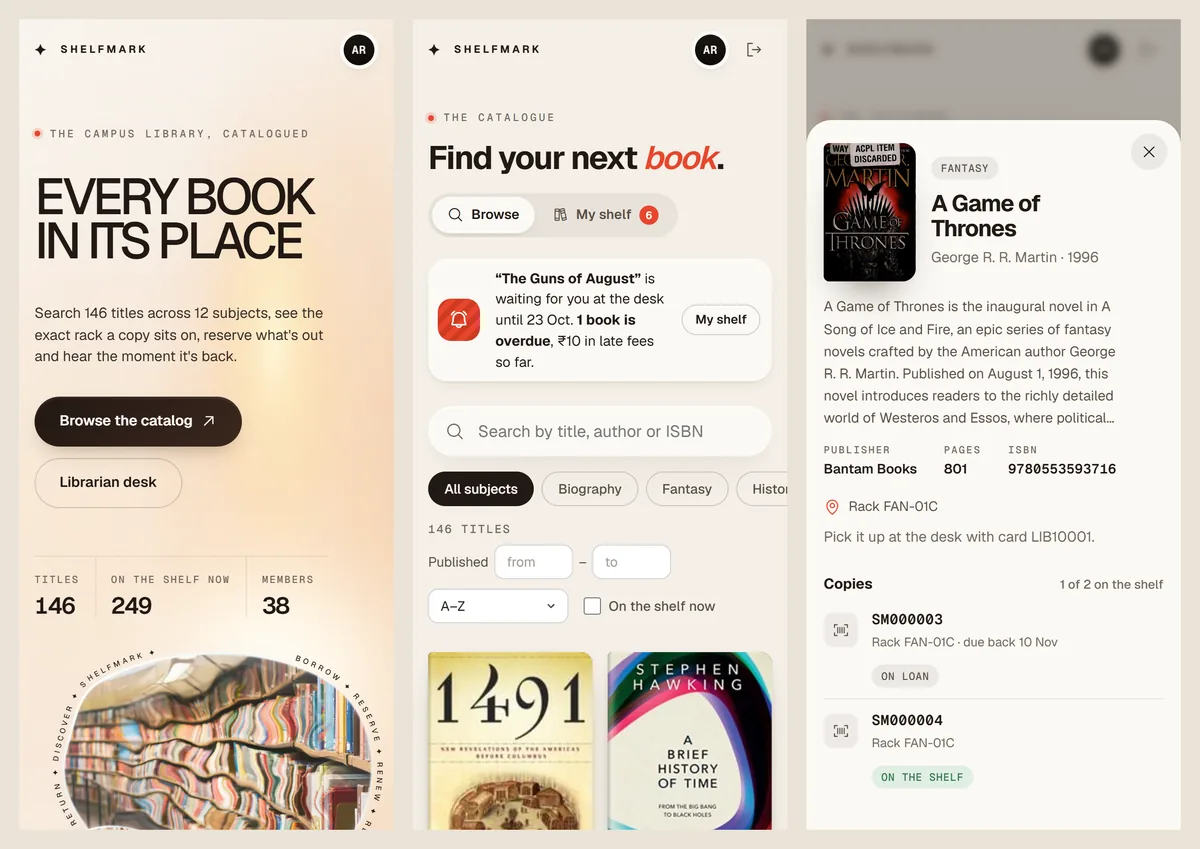
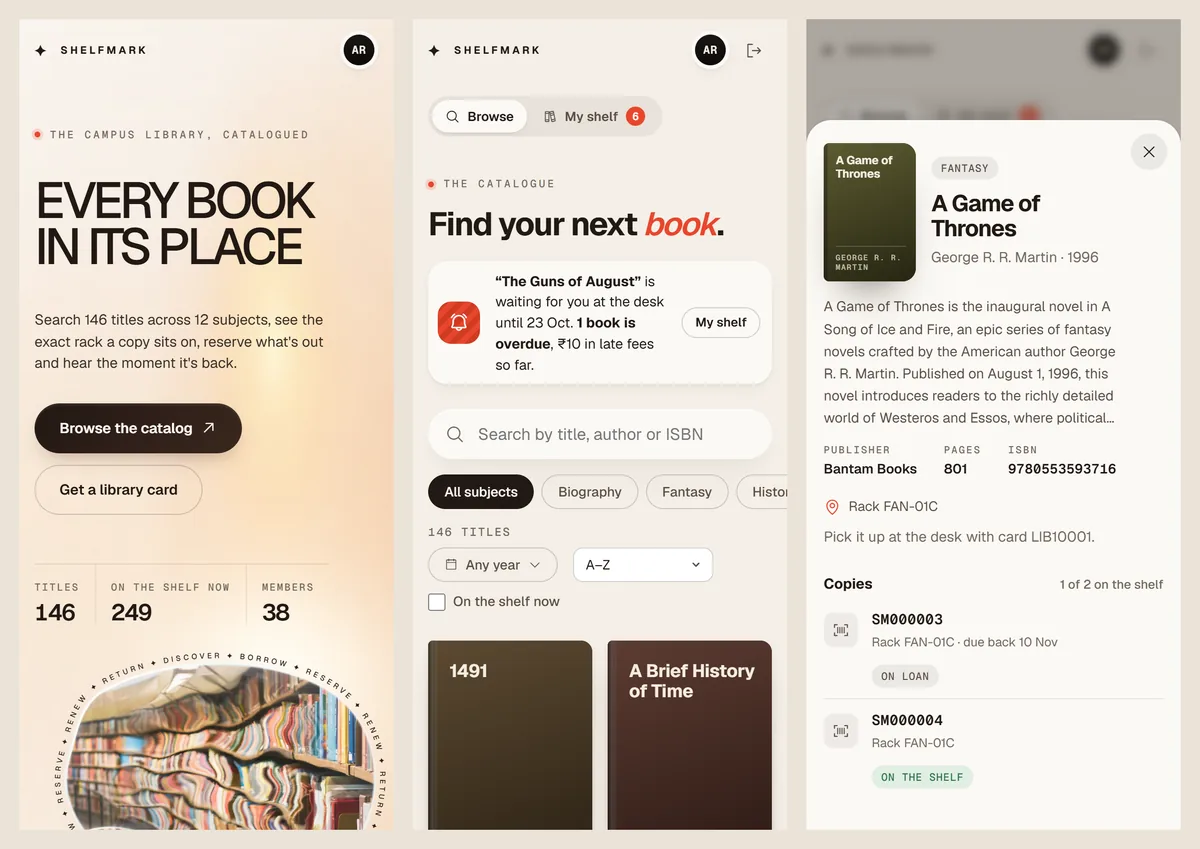
README and screenshots for Shelfmark and Shelfmark Admin

diff --git a/README.md b/README.md
@@ -1,14 +1,19 @@
 # Shelfmark
 
-A small but complete **library management system**, built as an Object-Oriented Software Development case study. Members search the catalogue, reserve titles that are out and renew their loans. Librarians run the circulation desk: issuing and returning copies by barcode, collecting fines and managing the catalogue and memberships.
+A small but complete **library management system**, built as an Object-Oriented Software Development case study. It is two apps on one database:
 
-**Live demo:** {{LIVE_URL}} &nbsp;·&nbsp; **API docs:** {{LIVE_URL}}/docs
+- **Shelfmark** for students and faculty: search the catalogue, reserve titles that are out, renew loans and keep track of fines and notices.
+- **Shelfmark Admin** for library staff: issue and return copies by barcode, collect fines, and manage the catalogue and memberships.
 
-| Demo account | Email | Password |
-|---|---|---|
-| Librarian (Desk) | `librarian@shelfmark.test` | `shelfmark` |
-| Student member | `student@shelfmark.test` | `shelfmark` |
-| Faculty member | `faculty@shelfmark.test` | `shelfmark` |
+**Live demo:** {{LIVE_URL}}
+
+| App | Sign in at | Login | Password |
+|---|---|---|---|
+| Shelfmark (student) | `/catalog` | `student@shelfmark.test` or card `LIB10001` | `shelfmark` |
+| Shelfmark (faculty) | `/catalog` | `faculty@shelfmark.test` or card `LIB10002` | `shelfmark` |
+| Shelfmark Admin (librarian) | `/admin` | staff ID `STAFF001` | `shelfmark-admin` |
+
+Members and staff sign in at separate doors with separate sessions, so both apps can be open side by side in one browser. The interactive API docs at `/docs` are for signed-in staff only.
 
 ![Landing page](docs/landing.webp)
 
@@ -16,22 +21,22 @@ A small but complete **library management system**, built as an Object-Oriented 
 
 **Visitors** can browse the landing page, which shows live catalogue figures, the most borrowed titles and the subject shelves. They can search the catalogue by title, author, ISBN, subject and publication year, and see every copy of a title with its rack and status.
 
-**Members** (Student or Faculty) can:
-- sign up and get a library card with a barcode;
+**Members** (Student or Faculty) use Shelfmark to:
+- sign up and get a library card with a barcode, then sign in with their email or card number;
 - reserve a title when every copy is out, joining a first-come, first-served queue;
 - renew a loan once, provided it isn't overdue and nobody is queued for it;
-- see their loans, due dates, accruing late fees, holds, fines and notices in one place.
+- see their loans, due dates, accruing late fees, holds, fines and notices on *My shelf*.
 
-**Librarians** use the Desk, which opens on the counter:
+**Librarians** sign in to Shelfmark Admin with their staff ID. It opens on the counter:
 - issue and return side by side: scan a library card and a book's barcode, see who and what before confirming (USB scanners work as keyboards);
-- four live counts (on loan, overdue, holds ready, unpaid fines), the overdue list, holds to hand over in one click and recent activity;
-- tabs for loans, reservations, fines, members (register, suspend, reinstate) and the catalogue (with an Open Library ISBN lookup when adding titles).
+- four live counts (on loan, overdue, holds ready, unpaid fines), holds to hand over in one click, the overdue list and an activity feed from every account that refreshes itself;
+- tabs for loans, reservations, fines, members (register, suspend, reinstate, see a card's recent activity) and the catalogue (with an Open Library ISBN lookup when adding titles).
 
-| Member catalog | My shelf |
+| Shelfmark: the catalog | Shelfmark: my shelf |
 |---|---|
 | ![Catalog](docs/catalog.webp) | ![My shelf](docs/shelf.webp) |
-| **Librarian desk** | **On a phone** |
-| ![Desk](docs/desk.webp) | ![Phone](docs/mobile.webp) |
+| **Shelfmark Admin** | **On a phone** |
+| ![Shelfmark Admin](docs/admin.webp) | ![Phone](docs/mobile.webp) |
 
 ## Case study requirements
 
@@ -40,13 +45,13 @@ A small but complete **library management system**, built as an Object-Oriented 
 | Search books by title, author, subject category and publication date | `GET /api/books?q=&by=title\|author\|isbn&subject=&year_from=&year_to=` |
 | Every book has a unique identifier and a rack number to locate it | ISBN on `Book`; a barcode and rack (e.g. `FAN-01A`) on every `BookItem` |
 | More than one copy of a book (*book items*) | `Book 1 ── * BookItem`; copies can be added, written off and found again |
-| Who has a particular book, and what a member has borrowed | Desk → Loans (search by member, card, title or barcode), member cards, copy scans |
+| Who has a particular book, and what a member has borrowed | Admin → Loans (search by member, card, title or barcode), member cards, copy scans |
 | Maximum books per member | Students 5, faculty 10 (`Member.max_books`) |
 | Maximum days a book can be kept | Students 10 days, faculty 30 (`Member.loan_days`), one renewal |
 | Fines for late returns | On return: days late × daily rate (₹5 student, ₹2 faculty); unpaid fines block borrowing |
 | Reserve books that aren't available | Reservation queue per title; the returned copy is held for 3 days for the first in line |
 | Notify when a reserved book is available, or a book is overdue | `MemberNotifier` observer posts in-app notices |
-| Barcodes on books and library cards | Every copy has a barcode (`SM000123`), every member card a CODE128 barcode; the desk's inputs work with USB scanners |
+| Barcodes on books and library cards | Every copy has a barcode (`SM000123`), every member card a CODE128 barcode; the Admin counter works with USB scanners |
 
 ## Object-oriented design
 
@@ -194,13 +199,13 @@ classDiagram
 ```mermaid
 sequenceDiagram
     actor L as Librarian
-    participant D as Desk (browser)
+    participant D as Admin (browser)
     participant A as FastAPI
     participant Lib as Library
     participant M as Member
     participant O as Observers
     L->>D: scan library card, scan book
-    D->>A: POST /api/desk/issue {card_no, barcode}
+    D->>A: POST /api/admin/issue {card_no, barcode}
     A->>Lib: issue(member, item)
     Lib->>M: ensure_can_borrow()
     Note right of M: suspended? unpaid fines?<br/>already at max_books?
@@ -264,12 +269,12 @@ stateDiagram-v2
     }
 ```
 
-Time-based rules (overdue notices and expired holds) are applied by `Library.sweep()`. It runs when the desk's counter or a member's account is loaded, so no scheduler is needed for a single-instance deployment.
+Time-based rules (overdue notices and expired holds) are applied by `Library.sweep()`. It runs when the Admin counter or a member's shelf is loaded, so no scheduler is needed for a single-instance deployment.
 
 ## Architecture
 
 ```
-Browser ── landing / catalog / desk (HTML, CSS, vanilla JS)
+Browser ── landing · Shelfmark (catalog) · Shelfmark Admin (HTML, CSS, vanilla JS)
    │  JSON over HTTPS, session cookie
 FastAPI (app/main.py) ── validation, auth guards, JSON shapes
    │
@@ -287,15 +292,15 @@ app/
   main.py       REST API, auth, static pages
   seed.py       demo data, replayed through the Library facade
   db.py         engine and session setup
-web/            landing (index), catalog and desk pages on one shared theme.css and shared.js
+web/            landing (index), catalog and admin pages on one shared theme.css and shared.js
 data/books.json 146 curated titles enriched from Open Library
 scripts/        dataset builder
 tests/          unit tests for every business rule
 ```
 
 - **Backend:** Python 3.13, FastAPI, SQLAlchemy 2, psycopg 3
-- **Auth:** scrypt-hashed passwords, signed session cookie (`HttpOnly`, `SameSite=Lax`, `Secure` in production), role guards per endpoint
-- **Frontend:** plain HTML/CSS/JS with no build step: one theme for all three pages, CSS animations, plus JsBarcode and Phosphor icons from CDNs
+- **Auth:** scrypt-hashed passwords; members and staff sign in at separate endpoints into separate slots of one signed session cookie (`HttpOnly`, `SameSite=Lax`, `Secure` in production); role guards on every endpoint
+- **Frontend:** plain HTML/CSS/JS with no build step: one theme for every page, CSS animations and page transitions, plus JsBarcode and Phosphor icons from CDNs
 - **Data:** demo seed with 146 books, 311 copies, 39 accounts and six weeks of simulated circulation. The simulation runs through the same `Library` class the API uses, so every loan, fine, hold and notice obeys the real rules.
 
 ## Run it locally
@@ -316,17 +321,17 @@ python -m unittest        # 17 tests covering the case-study rules
 | Page | URL |
 |---|---|
 | Landing | `/` |
-| Member catalog | `/catalog` |
-| Librarian desk | `/desk` |
-| Interactive API docs | `/docs` |
+| Shelfmark (members) | `/catalog` |
+| Shelfmark Admin (staff) | `/admin` |
+| Interactive API docs (staff only) | `/docs` |
 
 ## Deploy
 
-The repo includes a Render blueprint ([`render.yaml`](render.yaml)) for a free web service, backed by a free Neon Postgres database.
+One web service on Render's free plan and one free Neon Postgres database. Nothing else to set up.
 
-1. Create a Neon project and copy its **pooled** connection string.
-2. [![Deploy to Render](https://render.com/images/deploy-to-render-button.svg)]({{DEPLOY_URL}}) and paste the connection string as `DATABASE_URL`. `SECRET_KEY` is generated for you.
-3. On first boot the app creates its tables and seeds the demo data.
+1. On [Neon](https://neon.tech), create a project and copy its **pooled** connection string.
+2. Click [![Deploy to Render](https://render.com/images/deploy-to-render-button.svg)]({{DEPLOY_URL}}) and paste that string as `DATABASE_URL`. Render generates `SECRET_KEY` itself.
+3. The first boot creates the tables and seeds the demo library.
 
 ## Dataset
 
